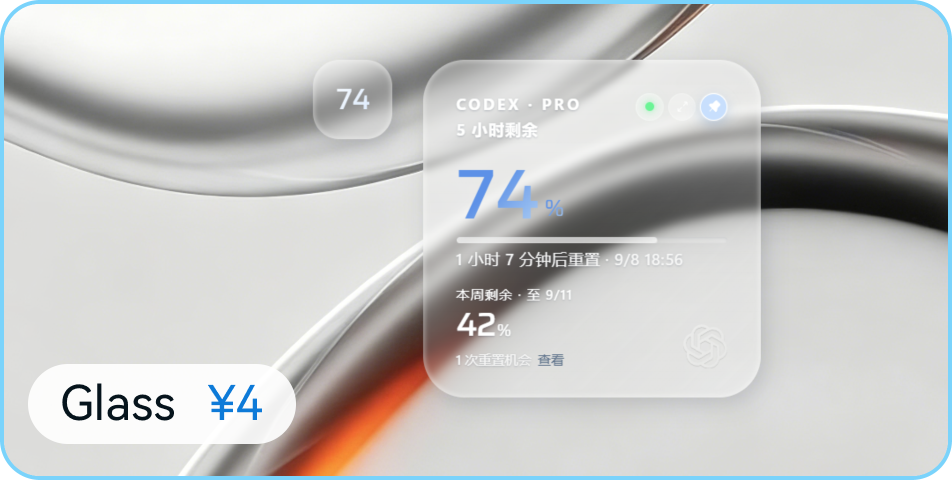
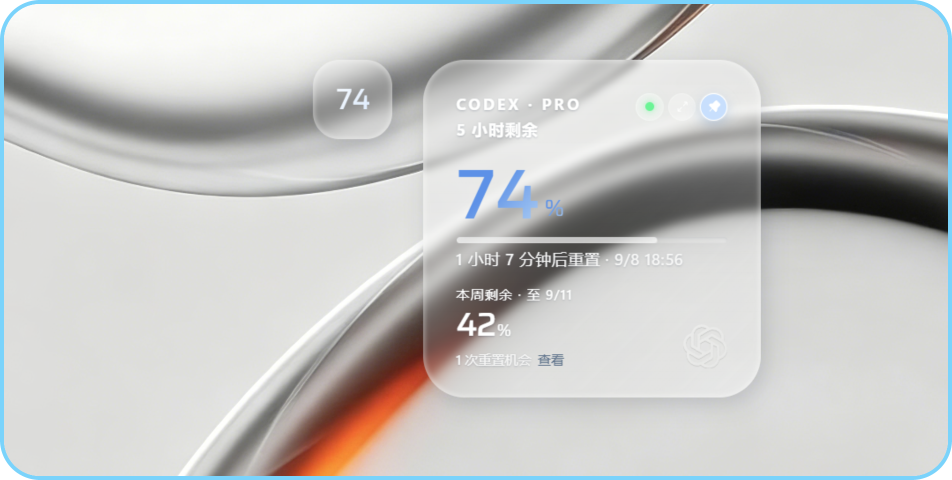
Localize first-run language and skin prices

Changed region(s): [[0.0305, 0.75, 0.3351, 0.9375]]

diff --git a/src/components/SupporterPanel.tsx b/src/components/SupporterPanel.tsx
@@ -14,10 +14,10 @@ type PreviewSkin = Exclude<WidgetSkin, "default">;
 // Keep prices in UI data rather than in the preview artwork. Update this table
 // when storefront prices change; no online exchange-rate lookup is performed.
 const choices: Array<{ id: PreviewSkin; name: Record<Language, string>; price: Record<Language, string>; thumbnail: string }> = [
-  { id: "blur", name: { "zh-CN": "Blur", en: "Blur" }, price: { "zh-CN": "¥2", en: "US$0.29" }, thumbnail: blurThumbnailUrl },
-  { id: "computer", name: { "zh-CN": "Computer", en: "Computer" }, price: { "zh-CN": "¥4", en: "US$0.57" }, thumbnail: computerThumbnailUrl },
-  { id: "glass", name: { "zh-CN": "Glass", en: "Glass" }, price: { "zh-CN": "¥4", en: "US$0.57" }, thumbnail: glassThumbnailUrl },
-  { id: "nexus", name: { "zh-CN": "Nexus", en: "Nexus" }, price: { "zh-CN": "¥8", en: "US$1.14" }, thumbnail: nexusThumbnailUrl },
+  { id: "blur", name: { "zh-CN": "Blur", en: "Blur" }, price: { "zh-CN": "¥2", en: "$1" }, thumbnail: blurThumbnailUrl },
+  { id: "computer", name: { "zh-CN": "Computer", en: "Computer" }, price: { "zh-CN": "¥4", en: "$2" }, thumbnail: computerThumbnailUrl },
+  { id: "glass", name: { "zh-CN": "Glass", en: "Glass" }, price: { "zh-CN": "¥4", en: "$2" }, thumbnail: glassThumbnailUrl },
+  { id: "nexus", name: { "zh-CN": "Nexus", en: "Nexus" }, price: { "zh-CN": "¥8", en: "$3" }, thumbnail: nexusThumbnailUrl },
 ];
 const previewStatus: SupporterStatus = { requestCode: "QF1-DEMO-DEVICE-CODE", active: true, message: "Supporter licenses are active.", unlockedSkin: "blur", unlockedSkins: ["blur", "computer"], selectedSkin: "blur", availableSkins: ["default", "blur", "computer"] };
 

diff --git a/src/App.tsx b/src/App.tsx
@@ -4,12 +4,12 @@ import { QuotaCard, QuotaOrb } from "./components/QuotaCard";
 import { fetchSnapshots, getPreferences, getSupporterStatus, listenDesktopEvents, setAlwaysOnTop, setWidgetExpanded, startDragging, syncWidgetAppearance, updatePreferences } from "./lib/bridge";
 import { quotaTier } from "./lib/format";
 import { checkForAppUpdate, openReleasePage } from "./lib/appUpdate";
-import { copy, normalizeLanguage } from "./lib/i18n";
+import { copy, normalizeLanguage, systemLanguage } from "./lib/i18n";
 import { mergeSnapshots } from "./lib/snapshots";
 import { DESKTOP_PALETTES } from "./lib/desktopPalette";
 import type { ProviderSnapshot, WidgetPreferences, WidgetSkin, WidgetTheme } from "./types";
 
-const DEFAULT_PREFS: WidgetPreferences = { locked: false, alwaysOnTop: true, stayExpanded: false, pinnedProvider: null, autoRotateSeconds: 12, language: "zh-CN", appearance: "light", license: null, licenses: [], unlockedSkin: null, unlockedSkins: [], selectedSkin: "default" };
+const DEFAULT_PREFS: WidgetPreferences = { locked: false, alwaysOnTop: true, stayExpanded: false, pinnedProvider: null, autoRotateSeconds: 12, language: systemLanguage(), appearance: "light", license: null, licenses: [], unlockedSkin: null, unlockedSkins: [], selectedSkin: "default" };
 const INITIAL_SNAPSHOT: ProviderSnapshot = {
   provider: "codex",
   displayName: "CODEX",

diff --git a/src/lib/bridge.ts b/src/lib/bridge.ts
@@ -1,6 +1,7 @@
 import type { ProviderSnapshot, SupporterStatus, WidgetPreferences, WidgetSkin } from "../types";
+import { systemLanguage } from "./i18n";
 
-const defaultPreferences: WidgetPreferences = { locked: false, alwaysOnTop: true, stayExpanded: false, pinnedProvider: null, autoRotateSeconds: 12, language: "zh-CN", appearance: "light", license: null, licenses: [], unlockedSkin: null, unlockedSkins: [], selectedSkin: "default" };
+const defaultPreferences: WidgetPreferences = { locked: false, alwaysOnTop: true, stayExpanded: false, pinnedProvider: null, autoRotateSeconds: 12, language: systemLanguage(), appearance: "light", license: null, licenses: [], unlockedSkin: null, unlockedSkins: [], selectedSkin: "default" };
 
 const mockSnapshot: ProviderSnapshot = {
   provider: "codex",

diff --git a/src/lib/i18n.ts b/src/lib/i18n.ts
@@ -1,6 +1,10 @@
 import type { Language } from "../types";
 
-export const DEFAULT_LANGUAGE: Language = "zh-CN";
+export function systemLanguage(): Language {
+  return globalThis.navigator?.language?.toLowerCase().startsWith("zh") ? "zh-CN" : "en";
+}
+
+export const DEFAULT_LANGUAGE: Language = systemLanguage();
 
 export const copy = {
   "zh-CN": {

diff --git a/src-tauri/src/models.rs b/src-tauri/src/models.rs
@@ -87,7 +87,35 @@ fn default_always_on_top() -> bool {
     true
 }
 fn default_language() -> String {
-    "zh-CN".into()
+    platform_default_language().into()
+}
+
+fn language_from_locale(locale: &str) -> &'static str {
+    if locale.trim().to_ascii_lowercase().starts_with("zh") {
+        "zh-CN"
+    } else {
+        "en"
+    }
+}
+
+#[cfg(target_os = "windows")]
+fn platform_default_language() -> &'static str {
+    use winreg::{enums::HKEY_CURRENT_USER, RegKey};
+
+    let user = RegKey::predef(HKEY_CURRENT_USER);
+    user.open_subkey(r"Control Panel\International")
+        .ok()
+        .and_then(|key| key.get_value::<String, _>("LocaleName").ok())
+        .map(|locale| language_from_locale(&locale))
+        .unwrap_or("en")
+}
+
+#[cfg(not(target_os = "windows"))]
+fn platform_default_language() -> &'static str {
+    std::env::var("LANG")
+        .ok()
+        .map(|locale| language_from_locale(&locale))
+        .unwrap_or("en")
 }
 fn default_appearance() -> String {
     "light".into()
@@ -155,5 +183,18 @@ impl WidgetPreferences {
         self.license = self.licenses.first().cloned();
         self.unlocked_skin = self.unlocked_skins.first().cloned();
         self
+    }
+}
+
+#[cfg(test)]
+mod tests {
+    use super::language_from_locale;
+
+    #[test]
+    fn defaults_to_chinese_only_for_chinese_system_locales() {
+        assert_eq!(language_from_locale("zh-CN"), "zh-CN");
+        assert_eq!(language_from_locale("ZH-hant-TW"), "zh-CN");
+        assert_eq!(language_from_locale("en-US"), "en");
+        assert_eq!(language_from_locale("ja-JP"), "en");
     }
 }
